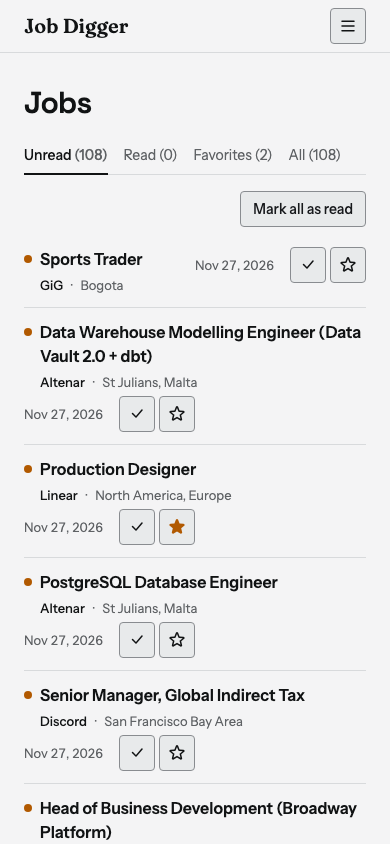
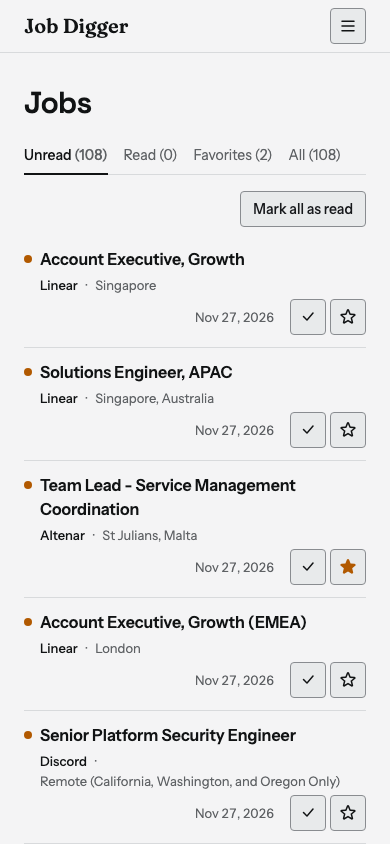
fix(jobs): keep the date and actions under the title on phones (#168)
* docs(tasks): add vacancy-row-mobile

* fix(jobs): keep the date and actions under the title on phones

* docs(app): describe the phone layout of a vacancy row

* docs: retake the phone screenshot in the README

* docs(tasks): mark vacancy-row-mobile done

* docs(tasks): link the vacancy-row-mobile PR

diff --git a/e2e/mobile.spec.ts b/e2e/mobile.spec.ts
@@ -60,3 +60,56 @@ test("no page scrolls sideways on a phone, and the menu opens from the burger", 
   await expect(page).toHaveURL(/\/history$/);
   await expect(menu).toBeHidden();
 });
+
+// Task vacancy-row-mobile: the date and the actions used to sit next to a short title
+// and drop under a long one, pressed to the left - in a different place on every row.
+// On a phone they are always under the title, aligned to the right edge.
+test("on a phone the date and actions of every vacancy are under the title, on the right", async ({
+  page,
+}) => {
+  await page.goto("/companies");
+  await page.getByRole("button", { name: "Add company" }).click();
+  const addDialog = page.getByRole("dialog", { name: "Add company" });
+  await addDialog
+    .getByLabel("Company website")
+    .fill("job-boards.greenhouse.io/discord");
+  await addDialog.getByLabel("Company website").blur();
+  await addDialog.getByLabel("Company website").fill("discord.com");
+  await addDialog.getByRole("button", { name: "Save" }).click();
+  await expect(addDialog).toBeHidden();
+
+  // The first check runs right after Save; the Discord board has 26 vacancies with
+  // both short and long titles.
+  // The header menu is hidden behind the burger here, so the end of the check is read
+  // from the company card.
+  await page.goto("/companies");
+  await expect(
+    companyCard(page, "Discord").getByText(/Last checked/),
+  ).toBeVisible({ timeout: 15_000 });
+
+  await page.goto("/");
+  const markAll = page.getByRole("button", { name: "Mark all as read" });
+  const contentRight = await rightEdge(markAll);
+  const rows = page.getByRole("main").getByRole("listitem");
+  await expect(rows.first()).toBeVisible();
+
+  for (const row of await rows.all()) {
+    const title = await row.getByRole("link").first().boundingBox();
+    const date = await row.locator("time").boundingBox();
+    const favorite = row.getByRole("button").last();
+    if (!title || !date) throw new Error("a vacancy row has no title or date");
+
+    expect(date.y).toBeGreaterThanOrEqual(title.y + title.height);
+    expect(
+      Math.abs((await rightEdge(favorite)) - contentRight),
+    ).toBeLessThanOrEqual(1);
+  }
+});
+
+async function rightEdge(
+  locator: ReturnType<Page["locator"]>,
+): Promise<number> {
+  const box = await locator.boundingBox();
+  if (!box) throw new Error("the element is not visible");
+  return box.x + box.width;
+}

diff --git a/src/app/_jobs/vacancy-row.tsx b/src/app/_jobs/vacancy-row.tsx
@@ -31,8 +31,11 @@ export function VacancyRow({ vacancy, onMark }: VacancyRowProps) {
 
   // From `sm` (640px) the date and the actions are always on the right: a long
   // title wraps inside the left block (`min-w-0`) instead of pushing them to a
-  // new line. Narrower, there is no room for two columns, and they go under the
-  // title. Aligned to the top: with a two-line title the actions face its start.
+  // new line. Aligned to the top: with a two-line title the actions face its
+  // start. Narrower, the row is a column, and the date and actions are always
+  // under the title, pressed to the right edge. A wrapping row put them next to a
+  // short title and under a long one, in a different place on every row (task
+  // vacancy-row-mobile).
   //
   // The row under the mouse lightens a little - the `bg-surface` card background
   // with a smooth transition (task 6.19). To keep the text in line with the page
@@ -40,7 +43,7 @@ export function VacancyRow({ vacancy, onMark }: VacancyRowProps) {
   // margin is at least 16px, and `hover:` in Tailwind v4 applies only where there
   // is a mouse.
   return (
-    <div className="-mx-4 flex flex-wrap items-start justify-between gap-x-6 gap-y-1 rounded-lg px-4 py-3 transition-colors hover:bg-surface sm:flex-nowrap">
+    <div className="-mx-4 flex flex-col gap-x-6 gap-y-1 rounded-lg px-4 py-3 transition-colors hover:bg-surface sm:flex-row sm:items-start sm:justify-between">
       {/* The "new" dot sits in its own narrow column before the title, inside
           the text column, not in the page margin (UI audit, B3): there it almost
           touched the edge of a phone screen. For a read vacancy the column is
@@ -88,7 +91,7 @@ export function VacancyRow({ vacancy, onMark }: VacancyRowProps) {
       {/* An absolute date in the user's locale: the relative format stays for
           "Last checked". The time zone is the one next-intl passes from the
           server, so server and client text match. */}
-      <div className="flex shrink-0 items-center gap-4">
+      <div className="flex shrink-0 items-center justify-end gap-4">
         <time
           dateTime={vacancy.firstDetectedAt.toISOString()}
           className="text-hint text-muted tabular-nums"

diff --git a/src/app/loading.tsx b/src/app/loading.tsx
@@ -38,12 +38,17 @@ export default async function JobsLoading() {
 
       <ul className="mt-2 divide-y">
         {Array.from({ length: ROWS }, (_, row) => (
-          <li key={row} className="flex items-start justify-between gap-6 py-3">
+          <li
+            key={row}
+            className="flex flex-col gap-2 py-3 sm:flex-row sm:items-start sm:justify-between sm:gap-6"
+          >
             <div className="flex flex-col gap-2">
-              <Skeleton className="h-4 w-72 rounded" />
+              <Skeleton className="h-4 w-72 max-w-full rounded" />
               <Skeleton className="h-3 w-48 rounded" />
             </div>
-            <Skeleton className="h-8 w-40 rounded" />
+            {/* On a phone the date and actions are under the title, on the right -
+                like in a real row (vacancy-row.tsx). */}
+            <Skeleton className="h-8 w-40 self-end rounded sm:self-auto" />
           </li>
         ))}
       </ul>

diff --git a/tasks/vacancy-row-mobile.md b/tasks/vacancy-row-mobile.md
@@ -1,0 +1,16 @@
+# Рядок вакансії на телефоні
+
+**Поза етапами — інтерфейс** · без строгого TDD (верстка), регресійна перевірка в `e2e/mobile.spec.ts`
+
+Знахідка автора 27.11.2026 (скріншот на 390 px): на телефоні блок «дата + Read + Favorite» стоїть праворуч від короткої назви, а під довгою переноситься вниз і притискається ліворуч. На різних картках він у різних місцях. Причина - `flex-wrap` у рядку: блок переноситься, лише коли не вміщається поруч.
+
+Рішення автора: на телефоні (до `sm`, 640 px) блок завжди під назвою й вирівняний по правому краю картки. Від `sm` - як було, праворуч від назви. Скріншоти в README перезняти.
+
+PR: #168
+
+## Кроки
+
+- [x] Регресійна перевірка в `e2e/mobile.spec.ts` (червона)
+- [x] Рядок вакансії й скелетон завантаження: колонка до `sm`, блок праворуч
+- [x] Правило в `src/app/README.md`
+- [x] Скріншоти README перезняти

diff --git a/src/app/README.md b/src/app/README.md
@@ -420,7 +420,10 @@ Every new UI change follows them.
    tooltip; below the status line, not next to it. The full address is visible only in
    Edit company.
 7. **Phone (390 px) - no horizontal scrolling**, the menu opens from a burger. Company
-   cards are one column at any width, the page container is `max-w-5xl`.
+   cards are one column at any width, the page container is `max-w-5xl`. In a vacancy
+   row the date and the actions are always under the title and aligned to the right
+   edge below `sm`, whatever the title's length; from `sm` they are on the right of it
+   (task vacancy-row-mobile, checked in `e2e/mobile.spec.ts`).
 8. **After any UI change** - screenshots in both themes at 1280 and 390 px before the PR.
 9. **Accessibility - WCAG 2.2 AA**, details in [Accessibility](#accessibility).
 

diff --git a/tasks/README.md b/tasks/README.md
@@ -222,3 +222,4 @@ and READMEs (task [remove-docs-plan](remove-docs-plan.md)). Its last version is 
 | [Translate src/lib, e2e and configs](translate-lib-e2e.md)                                 | done      |
 | [Root README for an outside reader](public-readme.md)                                      | done      |
 | [Flaky e2e/csv.spec.ts](csv-e2e-flake.md)                                                  | done      |
+| [Vacancy row on a phone](vacancy-row-mobile.md)                                            | done      |
